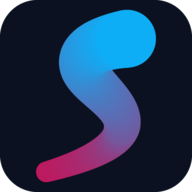
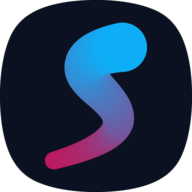
Иконка squircle, загрузил логотип

diff --git a/chat/templates/base.html b/chat/templates/base.html
@@ -28,7 +28,7 @@
     <link rel="icon" type="image/png" sizes="32x32" href="{% static './fav/favicon-32x32.png' %}">
     <link rel="icon" type="image/png" sizes="16x16" href="{% static './fav/favicon-16x16.png' %}">
     <link rel="manifest" href="{% static './fav/site.webmanifest' %}">
-    <link rel="mask-icon" href="{% static './fav/safari-pinned-tab.svg' %}" color="#5bbad5">
+    <link rel="mask-icon" href="{% static './fav/safari-pinned-tab.svg' %}" color="#0b1120">
     <link rel="shortcut icon" href="{% static './fav/favicon.ico' %}">
     <meta name="msapplication-TileColor" content="#da532c">
     <meta name="msapplication-config" content="{% static './fav/browserconfig.xml' %}">
